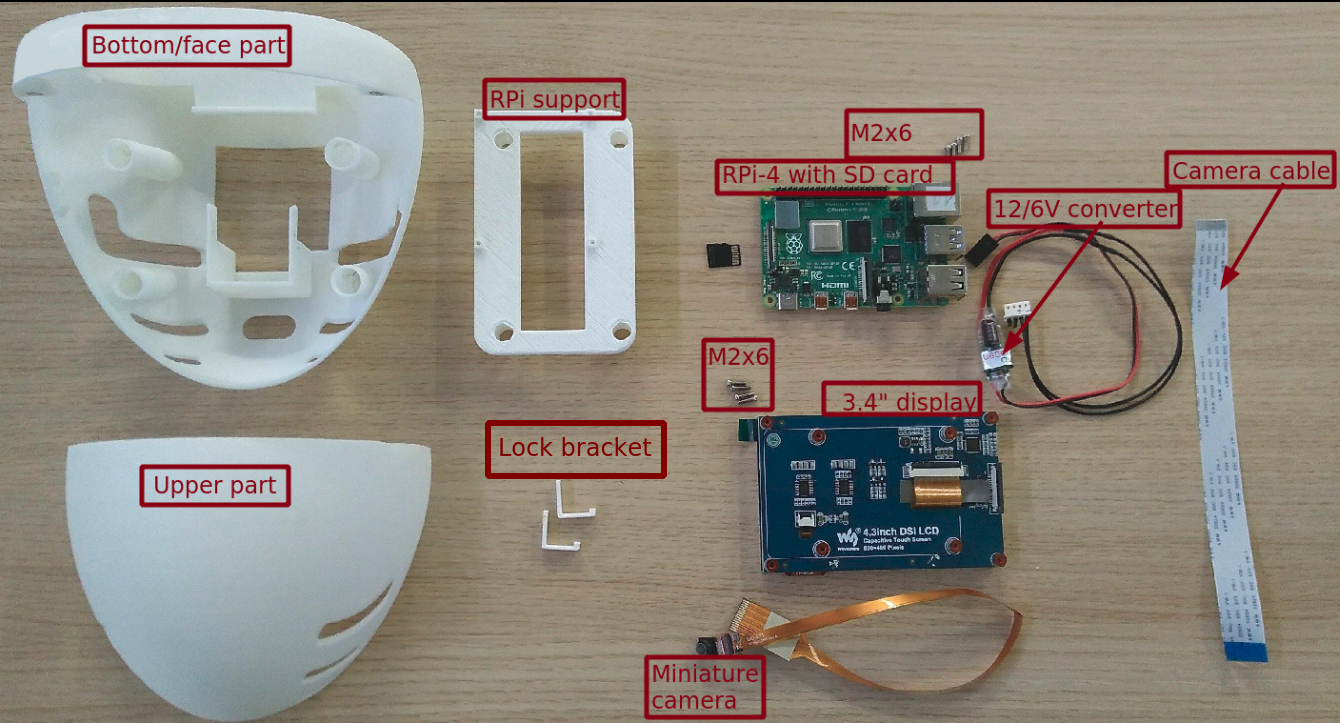
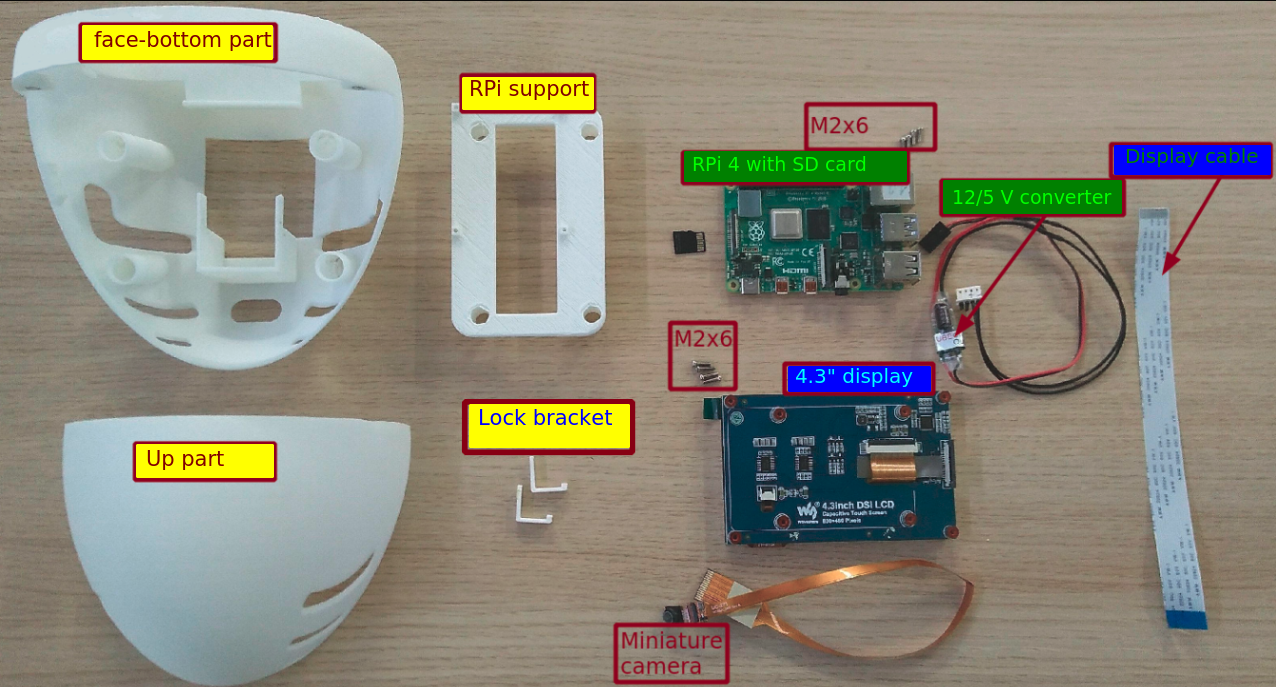
Last update from JLC

diff --git a/hardware/BOM.md b/hardware/BOM.md
@@ -1,42 +1,49 @@
 # BOM
 
-For the head _eve_, you will need the following material:
+For the head _eve_, you need the following material:
 
-|  id   | description                                                  | quantity |
-| :---: | :----------------------------------------------------------- | :------: |
-|   1   | Raspberry Pi 4 module with its SD card                       |    1     |
-|  2.1  | 3.4 inch display 800x400                                     |    1     |
-|  2.2  | 15 cm FPC 15PIN (Flexible Printed Circuits, opposite sides) cable to connect the display to the DSI connector of the RPi |    1     |
-|   3   | Miniature RPi camera B0066                                   |    1     |
-|   4   | Miniature button magnets                                     |    6     |
-|  5.1  | Head front-bottom part (3D printed)                          |    1     |
-|  5.2  | Head top part (3D printed)                                   |    1     |
-|  5.3  | Head RPi 4 support (3D printed)                              |    1     |
-|  5.4  | Locking brackets (3D printed) to lock the display inside the head                             |    2     |
-|   6   | M2x6 screw                                                   |    16    |
-|  7  | Patafix to maintain the locking brackets on the dispay.    |    2     |
+|  id   | description                                                                                                         | quantity |
+| :---: | :------------------------------------------------------------------------------------------------------------------ | :------: |
+|  1.1  | Raspberry Pi 4 module with its SD card                                                                              |    1     |
+|  1.2  | Power cable  using  a 12 V -> 6 V converter                                                                         |    1     |
+|  2.1  | 3.4 inch display 800x400                                                                                            |    1     |
+|  2.2  | 25 cm FPC 15PIN (Flexible Printed Circuits, opposite sides) cable to connect the display to the DSI port of the RPi |    1     |
+|   3   | Miniature RPi camera B0066                                                                                          |    1     |
+|   4   | Miniature button magnets                                                                                            |    4     |
+|  5.1  | Front-bottom part of the head (3D printed)                                                                          |    1     |
+|  5.2  | Top part of the head (3D printed)                                                                                   |    1     |
+|  5.3  | RPi 4 support part (3D printed)                                                                                     |    1     |
+|  5.4  | Locking brackets (3D printed) to lock the display in the head                                                       |    2     |
+|  6.1  | M2x6 screws                                                                                                         |    16    |
+|  6.2  | M2 nuts                                                                                                             |    8     |
+|   7   | _glue pads_ (yellow Patafix) to maintain the locking brackets on the display.                                       |    2     |
 
 ## 1/ Raspberry Pi 4 module
 
-You need a RPi4 module, with at least 2 GB RAM and a 16 GB SD card.
+- You need a RPi4 module, with at least 2 GB RAM and a 16 GB SD card.
 
-## 2/ 4.3inch Capacitive Touch Display for Raspberry Pi, DSI Interface, 800×480
+- In order to use the robot with the RPi4 the SD card must have a Linux OS and the Poppy software installed.
+
+- To power the RPi4 from the 12 V power unit used for the robot motors, you must use a 12 V -> 5 V, 3A  converter like [this one available at generation robot](https://www.generationrobots.com/fr/402297-convertisseur-abaisseur-de-type-buck-ubec-dcdc-5v-3a-output.html).<br>
+<img src="img/12_to_5_converter.png" width="100" />
+
+## 2/ 4.3inch Capacitive Touch Display, DSI Interface, 800×480
 
 We have selected [this display](https://www.waveshare.com/product/raspberry-pi/displays/lcd-oled/4.3inch-dsi-lcd.htm?):
 
-- it is compatible with the DSI display interface of the Raspberry Pi
-- it has a resolution of 800x400 with touch control
-- it is relatively cheap (~ 40 $ or 36 €).
+- Compatible with the DSI display interface of the Raspberry Pi.
+- Resolution of 800x400 with touch control.
+- Relatively cheap (~ 40 $ or 36 €).
 
 <img src="img/display.png" width="500" />
 
-As shown on the image, the RPi module can be attached directly to the back of the display, but for the Poppy usage, the display will be connected to the RPI  DSI connector using the 15 cm long FPC 15PIN (Flexible Printed Circuits, opposite sides).
+As shown on the image, the RPi module can be attached directly to the back of the display, but for the Poppy usage, the display will be connected to the DSI connector using a 25 cm long FPC 15PIN (Flexible Printed Circuits, opposite sides).
 
 Available for example at [www.waveshare.com](https://www.waveshare.com/product/raspberry-pi/displays/lcd-oled/4.3inch-dsi-lcd.htm?).
 
 ## 3/ Miniature camera 5 Mpx B0066
 
-We have choosen [this model](https://www.arducam.com/spy-camera-raspberry-pi/) for its very small size and good technical characteristics:
+We have choosen [this model](https://www.arducam.com/spy-camera-raspberry-pi/) for its very small size and good technical characteristics. It is fuly compatible with the camera connector of the RPi module:
 
 <img src="img/camera_miniature_3.png" width="400" />
 
@@ -51,13 +58,13 @@ The button magnets are used for assembling the 2 parts of the head.
 Dimensions:
 
 - diameter: 6 mm
-- thickness: 2.75 mm
-  
-Available for example at ????
+- thickness: 2.75 mm.
 
 ## 5/ STL parts
 
-- 2 parts fixed with miniature magnets :
+All the STL files are in the directory `STL`.
+
+- the head is divided in 2 parts fixed with the miniature magnets :
   - the front/bottom part:<br>
 `eve_head_frontBottom-part.stl`<br>
 <img src="img/eve_head_frontBottom-part.png" width="150" />
@@ -67,12 +74,9 @@ Available for example at ????
 <img src="img/eve_head_top-part.png" width="150" />
 
 - the RPi4 support inserted in the frontBottom part:<br>
-`eve_head_RPI4Support-part.stl`<br>
-<img src="img/eve_head_RPI4Support-part.png" width="110" />
+`eve_head_RPi4Support-part.stl`<br>
+<img src="img/eve_head_RPi4Support-part.png" width="110" />
   
-- the "locking bracket" part to lock the display inside the head:<br>
+- two "locking bracket" parts are used to lock the display in the head:<br>
 `eve_head_lock-part.stl`<br>
 <img src="img/eve_head_lock-part.png" width="80" />
-
-
-

diff --git a/doc/Eve_head_assemby_procedure.md b/doc/Eve_head_assemby_procedure.md
@@ -7,7 +7,8 @@ With [this bill of materials](../hardware/BOM.md), you should have all this mate
 ## 1 - Preparing the head parts
 
 Insert the miniature button magnets in the holes provided for this purpose in the _bottom/face_ and _upper_ parts.
-WARNING: you must take care to respect the __north__/__south__ poles of the magnets to ensure the fixation of the _upper_ part on the _bottom/face_ part.
+
+WARNING: be careful with the magnet orientation while inserting them. __north__ and __south__ poles attract each other ensuring magnetic attraction between the the _up_ and _face-bottom_ parts, while __north__/__north__ or __south__/__south__ repel each other !
 
 ![all](img/magnet_in_head_parts.png)
 
@@ -45,16 +46,18 @@ Insert the camera in the hole in the "bottom-face part" of the head:
 
 Place the RPi module on the "RPi support" part as shown in the image and gently tighten the 4 x M2x6 screws:
 
-<img src="img/RPi_on_support.png" width="550"> 
+<img src="img/RPi_on_support.png" width="600"> 
+
+When done, you can place the RPi support in the "bottom-face part" of the head, with the GPIO connector at the raer of the head.
 
 
-## 6 - Final step
+## 6 - Final steps
 
-- Connect the camera cable to the connector as shown in the image, with connectors side of the cable facing the connector contacts (same gentle operation as in step 3).
+- Connect the camera cable to the camera connector of the RPi module as shown in the image, with the contacts side of the cable facing the connector contacts (same gentle operation as in step 3).
 
 <img src="img/final_step_1.png" width="550"> 
 
-- Connect the display cable to the slot as shown in the image, with contact side of the cable facing the slot contacts.
+- Connect the display cable to the RPi display connector as shown in the image, with contact side of the cable facing the connector contacts.
   
 - Connect the power connector to the GPIO connector of the RPi module as shown in the image.
 
@@ -67,6 +70,6 @@ Place the RPi module on the "RPi support" part as shown in the image and gently 
 
 Et Voilà :smirk:
 
-Close the head with the "upper part" : your Poppy's head is ready ....
+Close the head with the "upper part" : the Poppy _Eve head_ is ready ....
 
-![eve head](img/eve_head.png)
+![eve head](img/eve_head.png)111

diff --git a/README.md b/README.md
@@ -6,11 +6,11 @@ Raspberry Pi 4-based head design for Poppy Torso and Humanoid ; embedding a scre
 
 This repository contains:
 
-* `doc` directory contains the documentation files on the Poppy Eve head:
-  * `Eve_head_design.pdf` gives the design history of the head Eve, made by 3 students of the ENSAM Bachelor of technology
-  * `Eve_head_assemby_procedure.md` is the assembly guide to make the Eve head for the Poppy-Torso robot.
-* `hardware` directory
-  * `STL` : contains the STL files to print the four head parts that make the Eve head.
+* `doc` contains the documentation files on the Poppy Eve head:
+  * `Eve_head_design.pdf` gives the design history of the head Eve, made by 3 students of the ENSAM Bachelor of technology at Bordeaux, France.
+  * `Eve_head_assemby_procedure.md` is the assembly guide to make the Eve head for the Poppy Torso or Humanoid.
+* `hardware`
+  * `STL` : contains the STL files to print the four parts that make the Eve head.
   * `BOM.md`: the bill of material.
 * `software`
-  * `RPi_config`: contains the instructions to add to the file ` config.txt` in the `boot\ partition of the SD card in order to use the DSI connector of the RPI4 to connect the display screen.
+  * `RPi_config`: contains the instructions to add at the end of file `config.txt` in the `boot` partition of the SD card in order to use the DSI connector of the RPI4 to connect the display screen.

diff --git a/software/README.md b/software/README.md
@@ -1,0 +1,13 @@
+# File config.txt in the /boot partition of the SD card
+
+In order to get the display on the DSI bus, you must customize the file `config.txt` in the `/boot` partition of the SD card:
+
+- All the lines setting somme HDMI  parameters are commented out with the character `#` at the beginning of the line.
+
+- the section `[pi4]` must contain the lines
+
+```
+dtoverlay=vc4-fkms-v3d
+max_framebuffers=2
+```
+As an example you can find a full`config.txt` file in the `software` directory.
